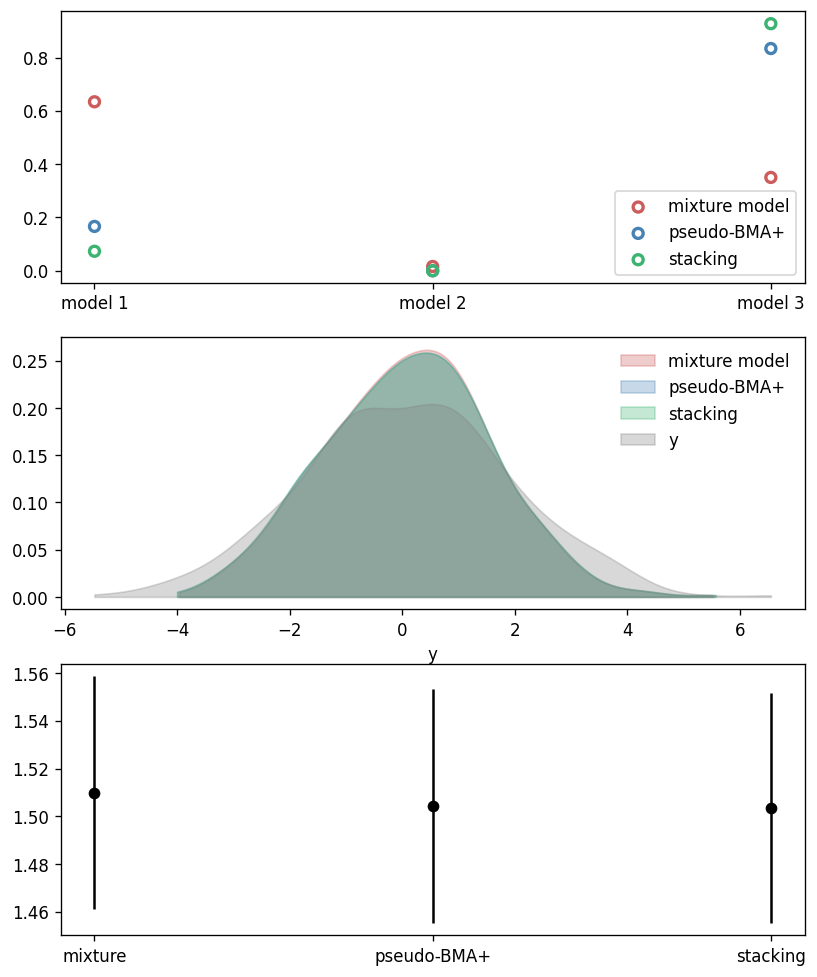
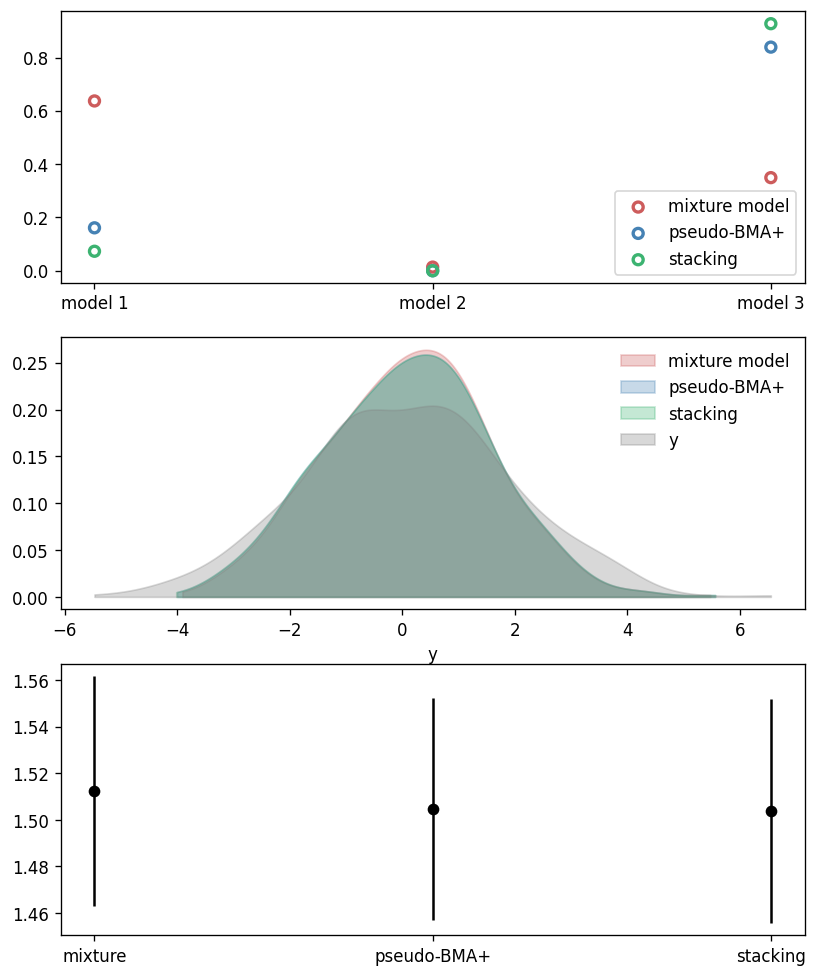
docs: re-run mixture model with separate coefficients

diff --git a/docs/user-guide/scripts/simulation.py b/docs/user-guide/scripts/simulation.py
@@ -32,23 +32,23 @@ mixture_string = """
 
     parameters {
         real alpha;
-        vector[P] beta;
+        vector[P + 2] beta;
         real<lower=0> sigma;
         simplex[K] w;
     }
 
     model {
-        alpha ~ normal(0, 10);
-        beta ~ normal(0, 10);
-        sigma ~ normal(0, 10);
+        alpha ~ normal(0, 1);
+        beta ~ normal(0, 1);
+        sigma ~ normal(0, 1);
 
         for(i in 1:N) {
-            vector[K] lps = [
+            row_vector[K] lps = [
                 normal_lpdf(y[i] | alpha + beta[1] * X[i,1], sigma),
                 normal_lpdf(y[i] | alpha + beta[2] * X[i,2], sigma),
-                normal_lpdf(y[i] | alpha + X[i] * beta, sigma)
-            ]';
-            target += log_sum_exp(log(w) + lps);
+                normal_lpdf(y[i] | alpha + X[i] * beta[3:], sigma)
+            ];
+            target += log_sum_exp(log(w) + lps');
         }
     }
 
@@ -56,21 +56,21 @@ mixture_string = """
         vector[N] post_pred;
 
         for(i in 1:N) {
-            vector[K] preds = [
+            row_vector[K] preds = [
                 normal_rng(alpha + beta[1] * X[i,1], sigma),
                 normal_rng(alpha + beta[2] * X[i,2], sigma),
-                normal_rng(alpha + X[i] * beta, sigma)
-            ]';
+                normal_rng(alpha + X[i] * beta[3:], sigma)
+            ];
             int mix_idx = categorical_rng(w);
             post_pred[i] = preds[mix_idx];
         }
     }
 """
 
-with open("mixture.stan", "w") as stan_file:
+with open("docs/user-guide/scripts/mixture.stan", "w") as stan_file:
     stan_file.write(mixture_string)
 
-mixture = csp.CmdStanModel(stan_file="mixture.stan")
+mixture = csp.CmdStanModel(stan_file="docs/user-guide/scripts/mixture.stan")
 
 fit_mixture = mixture.sample(
     data={"N": N, "P": P, "K": K, "X": X[:,:2], "y": y},
@@ -168,10 +168,10 @@ regression_string = """
     }
 """
 
-with open("regression.stan", "w") as stan_file:
+with open("docs/user-guide/scripts/regression.stan", "w") as stan_file:
     stan_file.write(regression_string)
 
-regression = csp.CmdStanModel(stan_file="regression.stan")
+regression = csp.CmdStanModel(stan_file="docs/user-guide/scripts/regression.stan")
 
 regression_predictors = (
     X[:,0].reshape((N, 1)), 

diff --git a/docs/user-guide/simulation.md b/docs/user-guide/simulation.md
@@ -166,49 +166,49 @@ directly, producing a coherent posterior predictive distribution
 in the `generated quantities` section:
 
 ```stan title="mixture.stan"
-data {
-    int<lower=0> N;
-    int<lower=2> K;
-    int<lower=1> P;
-    matrix[N, P] X;
-    vector[N] y;
-}
-
-parameters {
-    real alpha;
-    vector[P] beta;
-    real<lower=0> sigma;
-    simplex[K] w;
-}
-
-model {
-    alpha ~ normal(0, 10);
-    beta ~ normal(0, 10);
-    sigma ~ normal(0, 10);
-
-    for(i in 1:N) {
-        vector[K] lps = [
-            normal_lpdf(y[i] | alpha + beta[1] * X[i,1], sigma),
-            normal_lpdf(y[i] | alpha + beta[2] * X[i,2], sigma),
-            normal_lpdf(y[i] | alpha + X[i] * beta, sigma)
-        ]';
-        target += log_sum_exp(log(w) + lps);
+    data {
+        int<lower=0> N;
+        int<lower=2> K;
+        int<lower=1> P;
+        matrix[N, P] X;
+        vector[N] y;
     }
-}
 
-generated quantities {
-    vector[N] post_pred;
-
-    for(i in 1:N) {
-        vector[K] preds = [
-            normal_rng(alpha + beta[1] * X[i,1], sigma),
-            normal_rng(alpha + beta[2] * X[i,2], sigma),
-            normal_rng(alpha + X[i] * beta, sigma)
-        ]';
-        int mix_idx = categorical_rng(w);
-        post_pred[i] = preds[mix_idx];
+    parameters {
+        real alpha;
+        vector[P + 2] beta;
+        real<lower=0> sigma;
+        simplex[K] w;
     }
-}
+
+    model {
+        alpha ~ normal(0, 1);
+        beta ~ normal(0, 1);
+        sigma ~ normal(0, 1);
+
+        for(i in 1:N) {
+            row_vector[K] lps = [
+                normal_lpdf(y[i] | alpha + beta[1] * X[i,1], sigma),
+                normal_lpdf(y[i] | alpha + beta[2] * X[i,2], sigma),
+                normal_lpdf(y[i] | alpha + X[i] * beta[3:], sigma)
+            ];
+            target += log_sum_exp(log(w) + lps');
+        }
+    }
+
+    generated quantities {
+        vector[N] post_pred;
+
+        for(i in 1:N) {
+            row_vector[K] preds = [
+                normal_rng(alpha + beta[1] * X[i,1], sigma),
+                normal_rng(alpha + beta[2] * X[i,2], sigma),
+                normal_rng(alpha + X[i] * beta[3:], sigma)
+            ];
+            int mix_idx = categorical_rng(w);
+            post_pred[i] = preds[mix_idx];
+        }
+    }
 ```
 
 ```python title="Fit the mixture model"
@@ -222,9 +222,9 @@ fit_mixture = mixture.sample(
 
 The figure below shows the estimated posterior weights,
 alongside the posterior predictive distribution.
-Model 1 is given most weight (mean = 63.4%), followed by
-model 3 (mean = 35%), and model 2 is given hardly any weight
-at all (mean = 1.5%).
+Model 1 is given most weight (mean = 63.7%), followed by
+model 3 (mean = 35.0%), and model 2 is given hardly any weight
+at all (mean = 1.4%).
 
 ![mixture_weights](scripts/figures/mixture-weights.png)
 *Mixture model weights and predictions*
